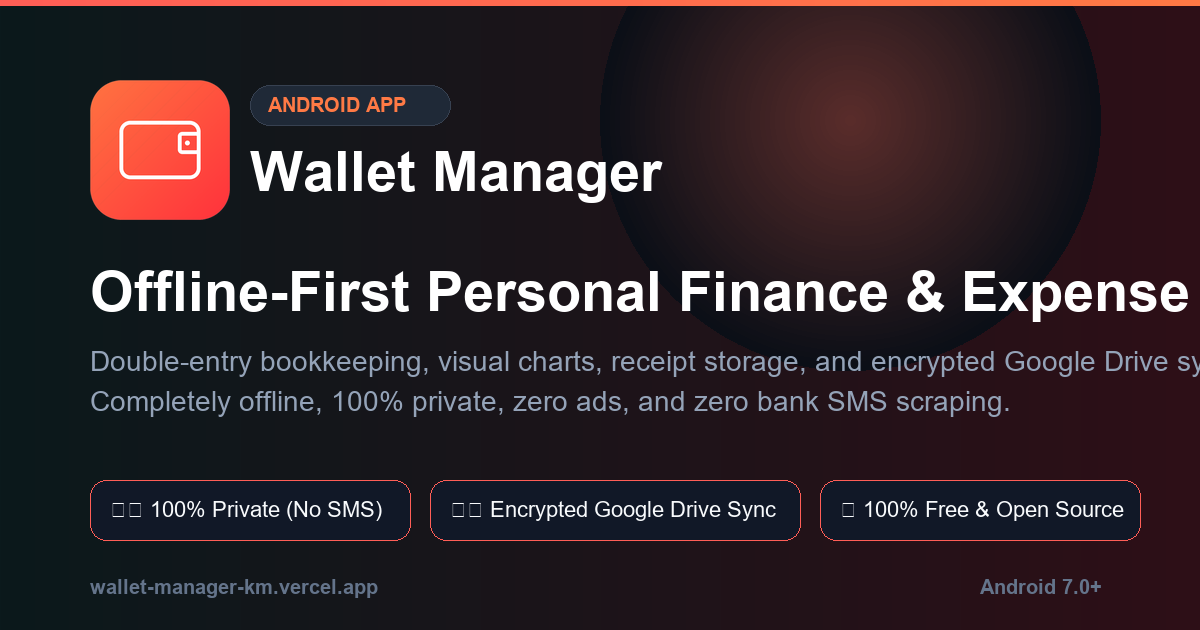
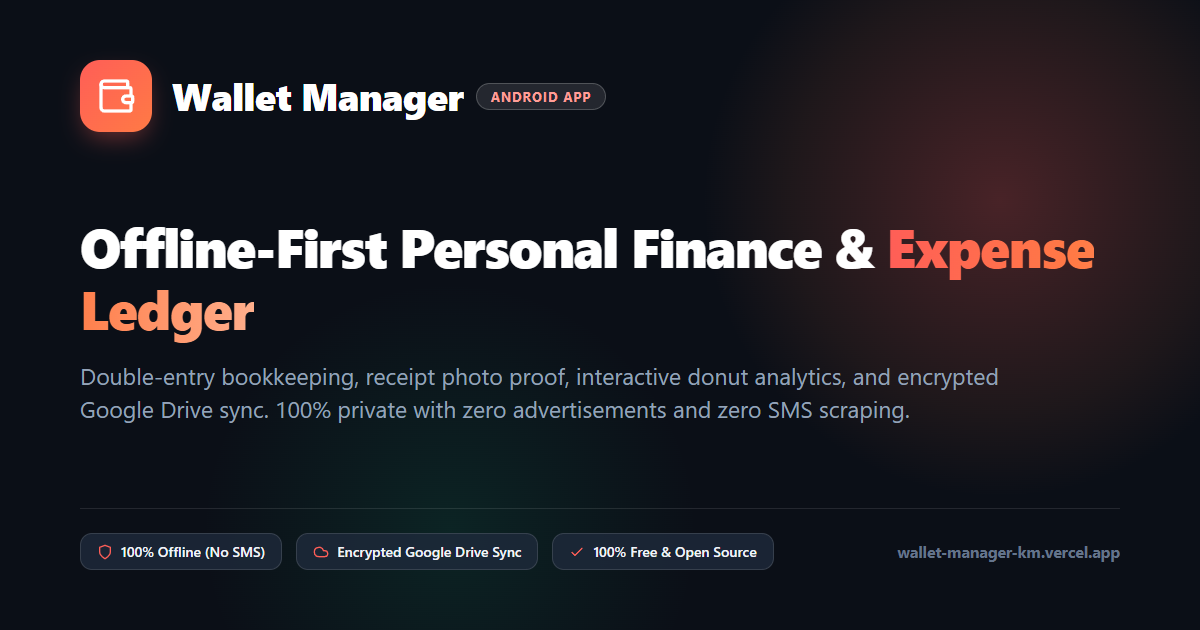
fix(website): regenerate og-image, delete static seo files, and delineate app vs site analytics

diff --git a/website/app/privacy/page.tsx b/website/app/privacy/page.tsx
@@ -72,7 +72,7 @@ export default function PrivacyPage() {
               Summary of Our Privacy Commitments
             </h2>
             <p className="text-sm text-slate-600 dark:text-slate-300">
-              Wallet Manager is an <strong>offline-first, zero-telemetry Android application</strong> designed from the ground up so that your personal financial records never touch our servers. We have no user accounts, no login portals, no tracking cookies, no advertising SDKs, and zero bank SMS scraping.
+              The <strong>Wallet Manager Android application</strong> is 100% offline-first with zero telemetry, zero in-app analytics, zero advertising SDKs, and zero bank SMS scraping. Your financial records never leave your device unless you choose to sync them directly to your personal Google Drive. The <strong>showcase website</strong> uses zero cookies and only anonymous, privacy-friendly aggregated page-view analytics.
             </p>
           </section>
 

diff --git a/website/components/SecuritySection.tsx b/website/components/SecuritySection.tsx
@@ -31,10 +31,10 @@ export default function SecuritySection() {
     },
     {
       icon: Radio,
-      title: "Zero Ads & Zero Telemetry",
+      title: "Zero In-App Ads & Telemetry",
       description:
-        "No ad SDKs, no behavioral trackers, and no background analytics pinging third-party data brokers. Clean, fast, battery-efficient operation.",
-      badge: "No Google / Meta Pixel",
+        "The Android app contains zero ad SDKs, zero trackers, and zero telemetry. The website uses only privacy-friendly, cookie-free aggregated page-view metrics.",
+      badge: "100% In-App Tracker-Free",
       color: "from-blue-500 to-indigo-500",
     },
     {
